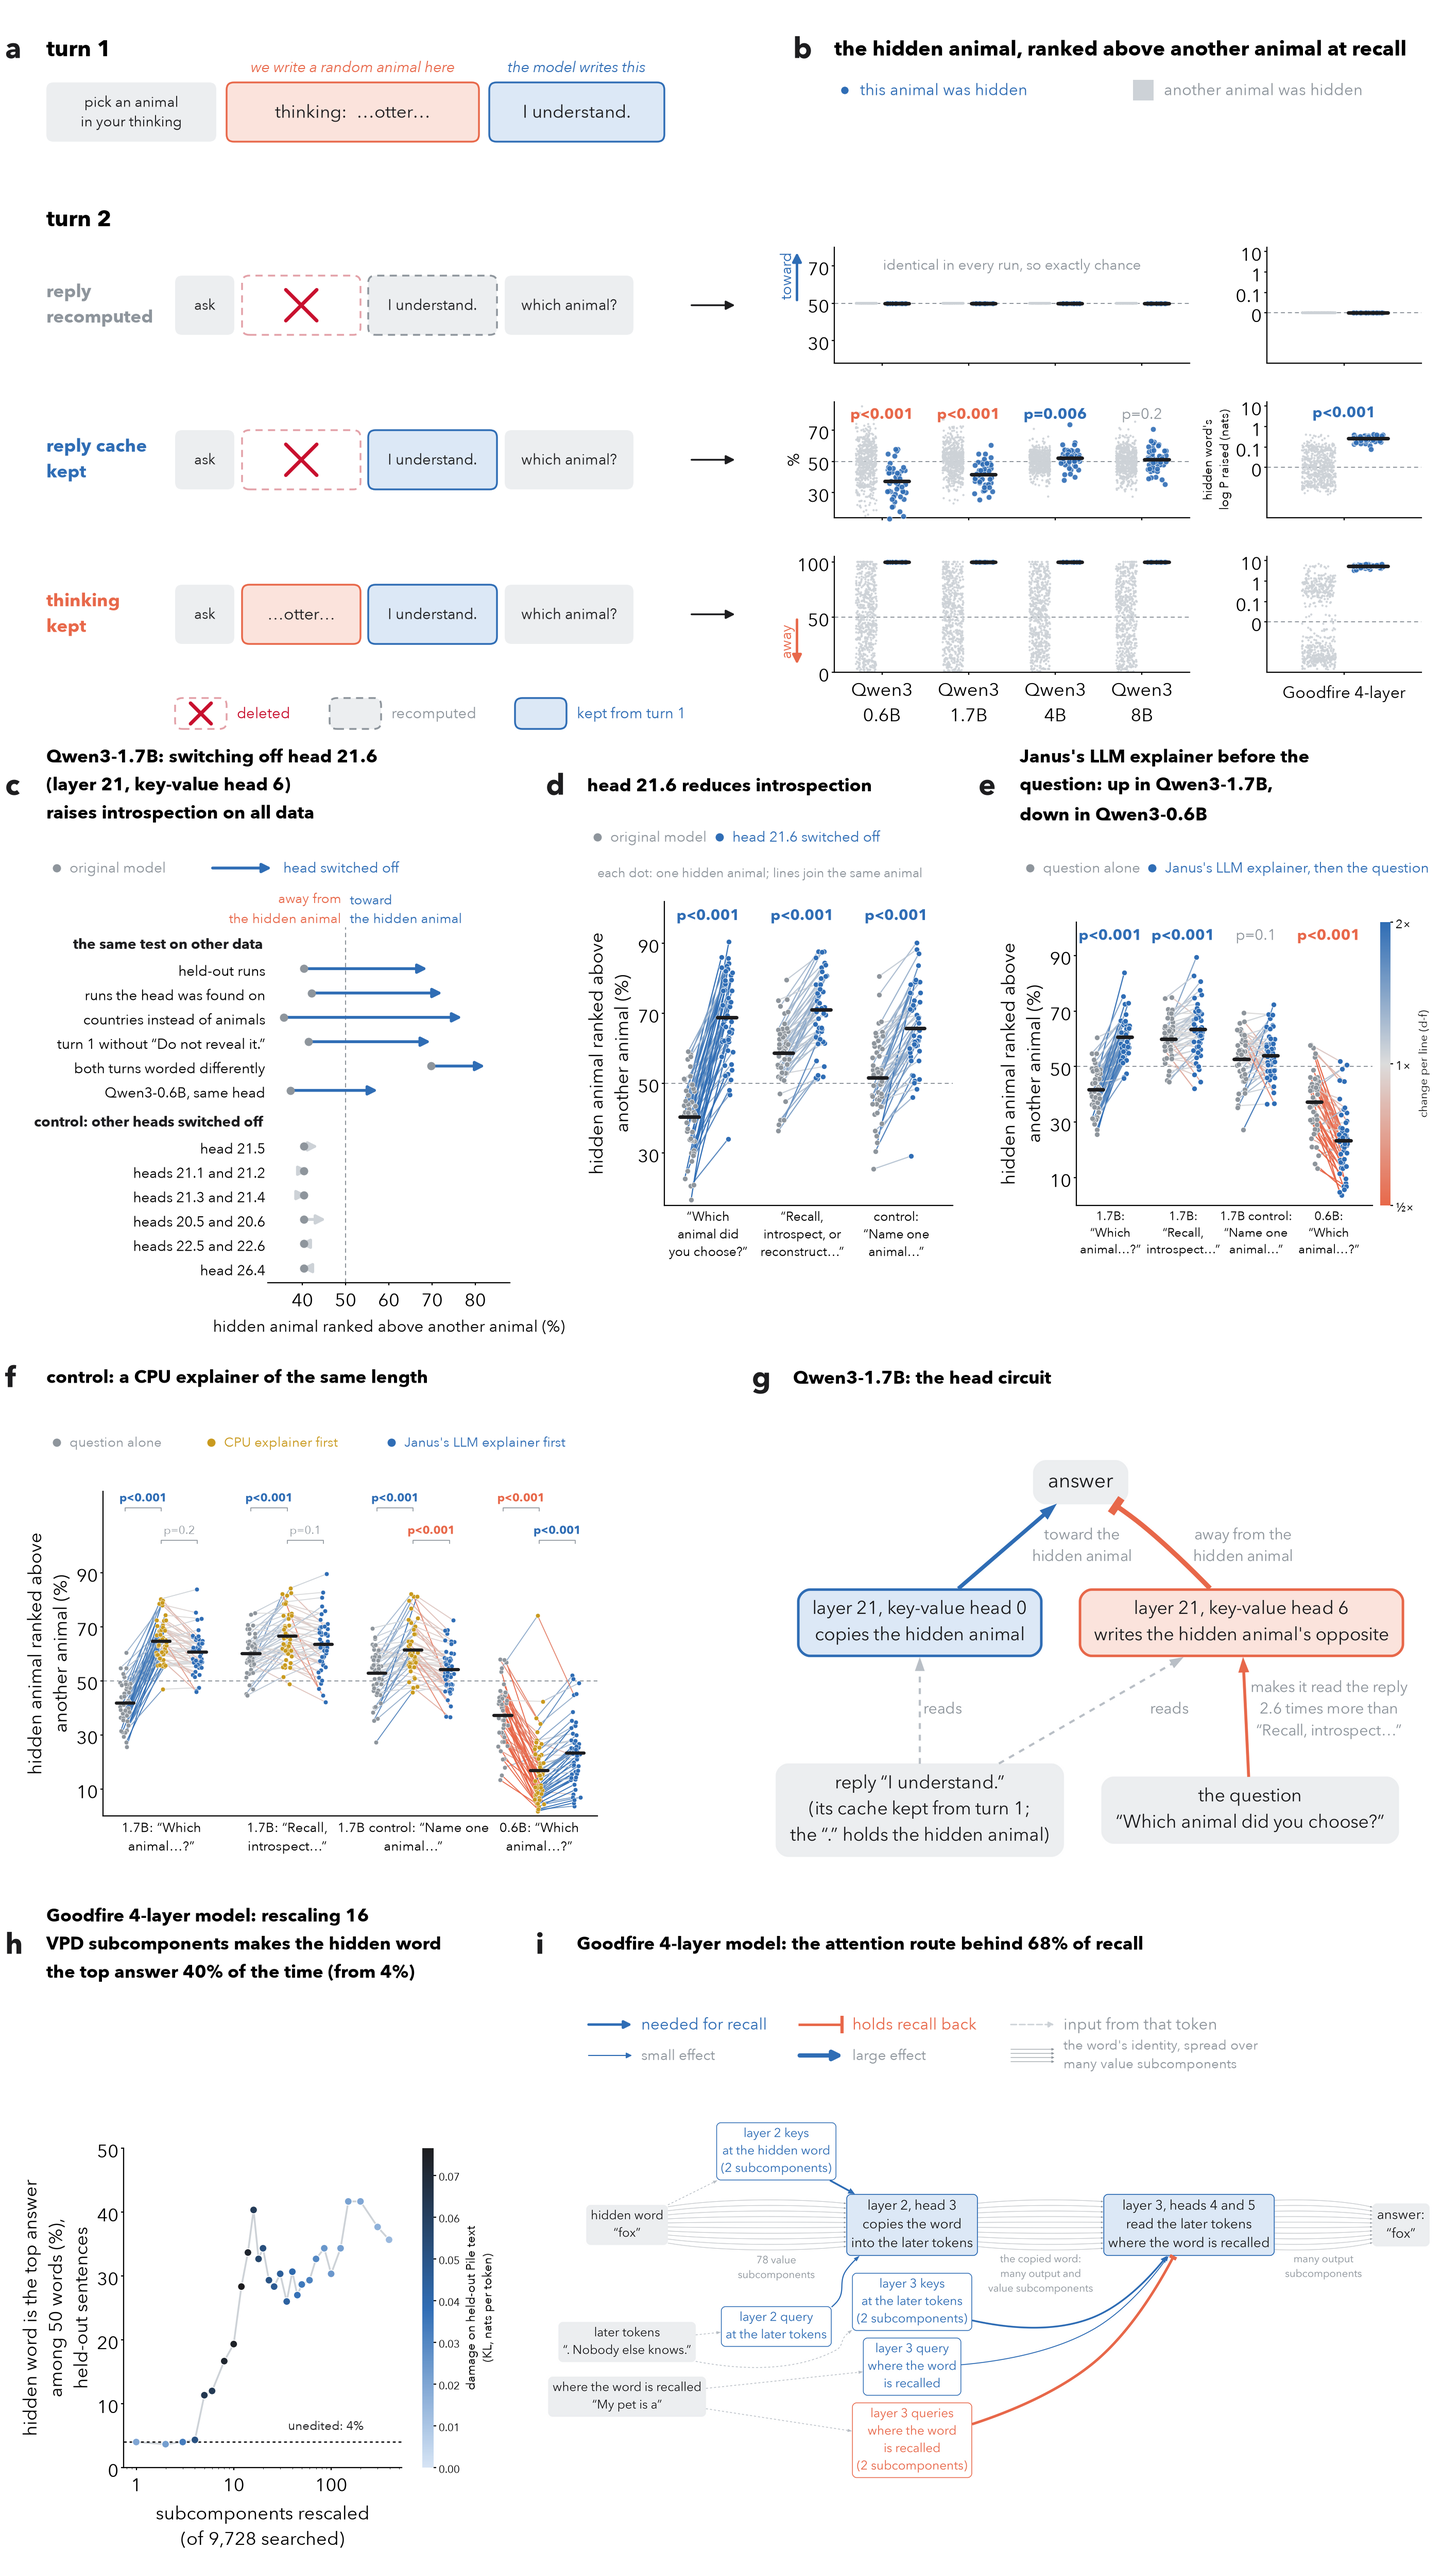
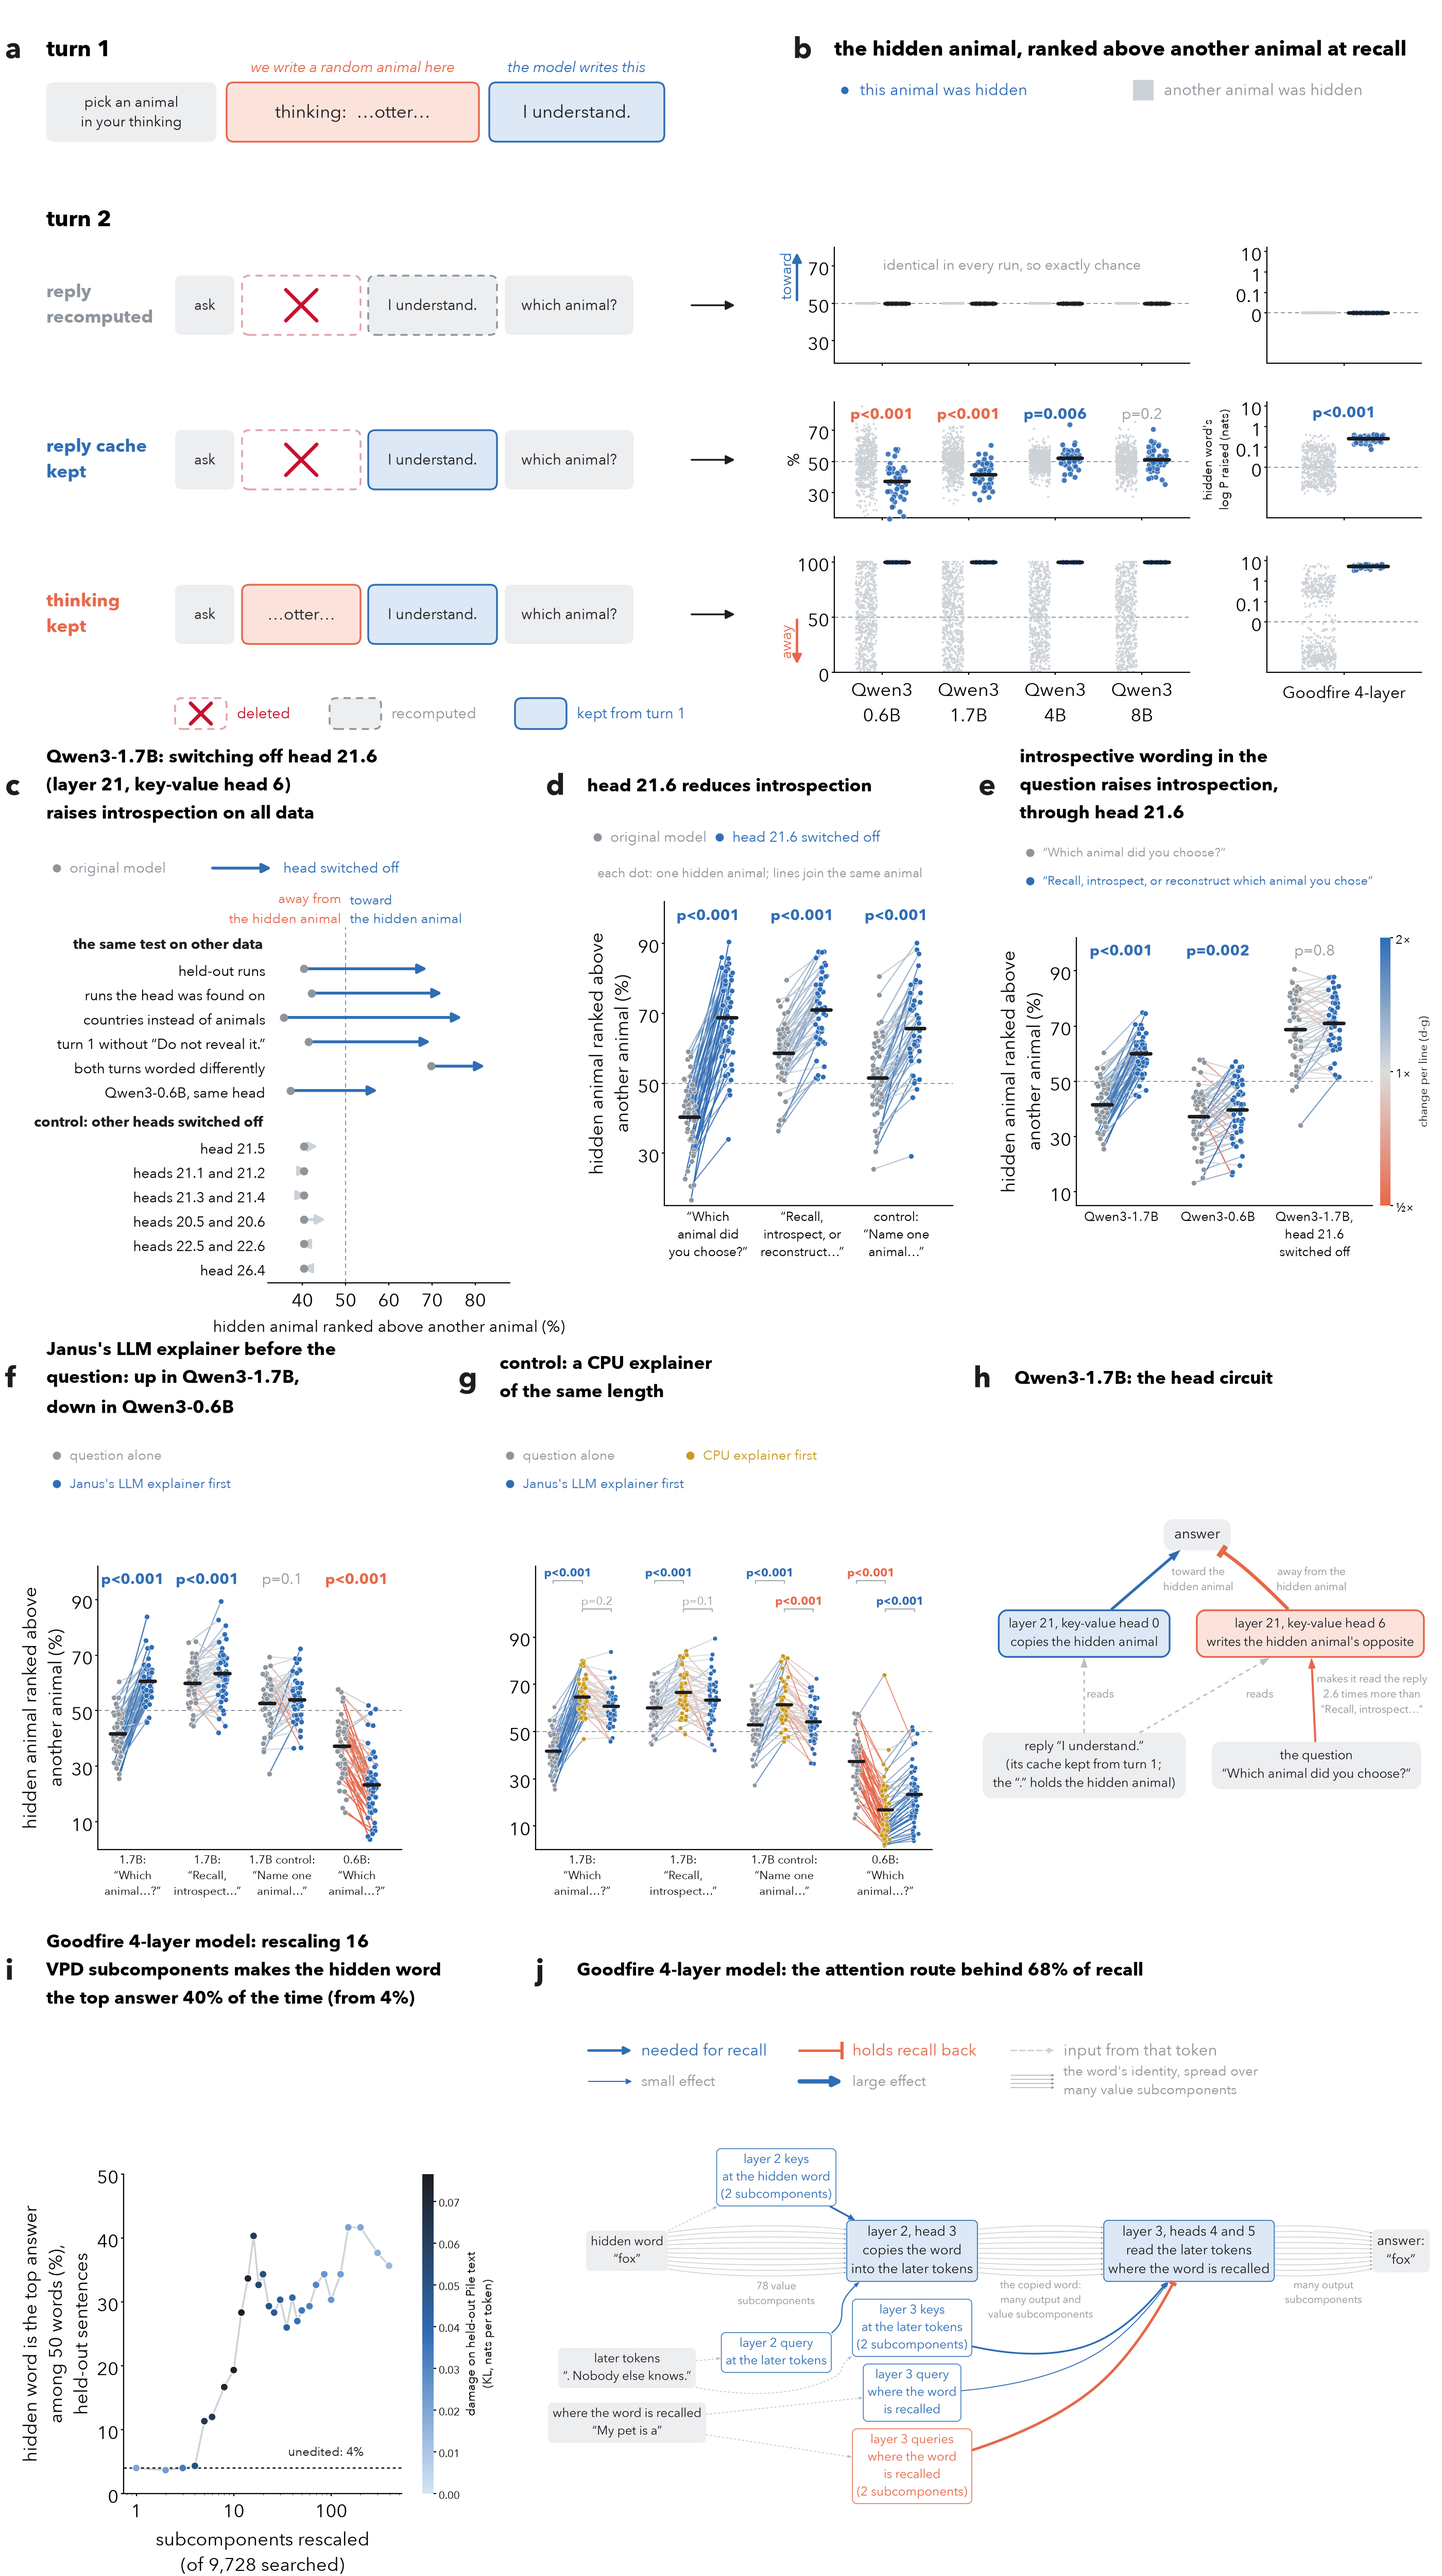
New panel e: the recall question without and with introspective wording, paired per hidden animal: Qwen3-1.7B 41.6% -> 60.0% (p < 0.001), Qwen3-0.6B 37.2% -> 39.7% (p = 0.002), Qwen3-1.7B with head 21.6 switched off 68.9% -> 71.0% (p = 0.8); the explainer, CPU control and Qwen circuit move to f-h, t

diff --git a/figure_main.py b/figure_main.py
@@ -3,10 +3,11 @@
        animal relative to its mean over runs; 50% = chance) in each condition; last column: the same three conditions in
        text on Goodfire's 4-layer model, as the raise of the hidden word's log P within its template (nats)
   c-e  Qwen3-1.7B: key-value head 21.6 switched off across datasets, with other heads as controls; per hidden animal,
-       each question with the head and without it (held-out runs); each question alone and after Janus's LLM explainer
-       (and Qwen3-0.6B)
-  f-g  the same with a CPU explainer of the same length and style between the two; the Qwen3-1.7B head circuit
-  h-i  Goodfire's 4-layer model: the fewest VPD subcomponents that make the hidden word the top answer; the attention
+       each question with the head and without it (held-out runs); the recall question without and with introspective
+       wording (Qwen3-1.7B, Qwen3-0.6B, and Qwen3-1.7B with head 21.6 switched off)
+  f-h  each question alone and after Janus's LLM explainer (Qwen3-1.7B and 0.6B); the same with a CPU explainer of the
+       same length and style between the two; the Qwen3-1.7B head circuit
+  i-j  Goodfire's 4-layer model: the fewest VPD subcomponents that make the hidden word the top answer; the attention
        route of recall and the subcomponents that switch it (Graphviz, circuit_dot.py)
 Paired p-values: sign flips (t statistic) of each run's paired difference in the hidden animal's log P relative to
 that animal's mean over runs; p against chance: re-pairing hidden animals.
@@ -36,7 +37,7 @@ plt.rcParams.update({"font.family": "Avenir Next", "font.size": 26, "figure.face
                      "axes.facecolor": "white", "axes.spines.top": False, "axes.spines.right": False,
                      "axes.linewidth": 1.6, "xtick.major.width": 1.6, "ytick.major.width": 1.6})
 W = 28.0                                   # figure width in drawing units (inches)
-ROWS = [14.5, 11.5, 11.0, 12.5]            # heights of the four rows
+ROWS = [14.5, 11.5, 11.5, 12.5]            # heights of the four rows
 H = sum(ROWS)
 
 
@@ -422,7 +423,8 @@ def row_head(cv, y0, flip_groups, npz, other):
     """Panels c-e, Qwen3-1.7B, occupying [y0, y0 + ROWS[1]].
     c: layer 21 head 6 switched off on several datasets, other heads as controls (edit_heads.py)
     d: per hidden animal, each question, original model and head 21.6 switched off (edit_heads.py --save-logp)
-    e: per hidden animal, each question alone and after Janus's LLM explainer (edit_heads.py --question)"""
+    e: per hidden animal, the recall question without and with introspective wording, in Qwen3-1.7B, Qwen3-0.6B and
+       Qwen3-1.7B with head 21.6 switched off (held-out runs) (edit_heads.py --question)"""
     top = y0 + ROWS[1]
     cv.letter(0.1, top - 0.75, "c")
     cv.S.text(0.9, top - 0.75, "Qwen3-1.7B: switching off head 21.6\n(layer 21, key-value head 6)\nraises introspection on all data",
@@ -451,20 +453,24 @@ def row_head(cv, y0, flip_groups, npz, other):
     ax.set_ylabel("hidden animal ranked above\nanother animal (%)")
 
     cv.letter(19.0, top - 0.75, "e")
-    qs = explainer_questions(npz, other)
-    ax = cv.axes(20.9, y0 + 2.6, 5.75, 5.5)
-    cv.S.text(19.8, top - 0.75, "Janus's LLM explainer before the\nquestion: up in Qwen3-1.7B,\ndown in Qwen3-0.6B",
+    cv.S.text(19.8, top - 0.75, "introspective wording in the\nquestion raises introspection,\nthrough head 21.6",
               fontsize=25, weight="bold", va="center", linespacing=1.15)
-    paired_legend(cv, 20.0, top - 2.35, "question alone", "Janus's LLM explainer, then the question")
-    panel_paired(ax, [(saved_logp(sp, f"none|{q0}")[0], saved_logp(sp, f"none|{qd}")[0], saved_logp(sp, f"none|{q0}")[1])
-                      for sp, _, q0, _, qd, _ in qs], (0, 102))
-    ax.set_xticks([3 * k + 0.6 for k in range(len(qs))], [lab for *_, lab in qs], fontsize=17)
+    for yy, col, lab in ((top - 2.05, SLATE, "\u201cWhich animal did you choose?\u201d"),
+                         (top - 2.6, BLUE, "\u201cRecall, introspect, or reconstruct which animal you chose\u201d")):
+        cv.S.scatter([20.0], [yy], s=110, color=col)
+        cv.S.text(20.25, yy, lab, fontsize=17, color=col, va="center")
+    held = npz.split("+")[0]
+    groups = [(npz, "none", "Qwen3-1.7B"), (other, "none", "Qwen3-0.6B"), (held, "21:6*0", "Qwen3-1.7B,\nhead 21.6\nswitched off")]
+    ax = cv.axes(20.9, y0 + 2.6, 5.75, 5.2)
+    panel_paired(ax, [(saved_logp(sp, f"{e}|retained")[0], saved_logp(sp, f"{e}|recall_B")[0], saved_logp(sp, f"{e}|retained")[1])
+                      for sp, e, _ in groups], (5, 102))
+    ax.set_xticks([3 * k + 0.6 for k in range(len(groups))], [lab for *_, lab in groups], fontsize=18)
     ax.set_ylabel("hidden animal ranked above\nanother animal (%)")
     ax.tick_params(axis="x", length=0)
     ax.set_yticks([10, 30, 50, 70, 90])
-    cb = cv.fig.colorbar(matplotlib.cm.ScalarMappable(norm=FC_NORM, cmap=FC_CMAP), cax=cv.axes(26.8, y0 + 2.6, 0.2, 5.5))
+    cb = cv.fig.colorbar(matplotlib.cm.ScalarMappable(norm=FC_NORM, cmap=FC_CMAP), cax=cv.axes(26.8, y0 + 2.6, 0.2, 5.2))
     cb.set_ticks([-1, 0, 1], labels=["½×", "1×", "2×"])
-    cb.set_label("change per line (d-f)", fontsize=16, labelpad=2)
+    cb.set_label("change per line (d-g)", fontsize=16, labelpad=2)
     cb.ax.tick_params(labelsize=17)
     cb.outline.set_visible(False)
 
@@ -475,40 +481,56 @@ SITES = [("h.1.mlp.down_proj", "layer 1\nMLP out"), ("h.2.attn.q_proj", "layer 2
 
 
 def row_controls(cv, y0, npz, other):
-    """Panels f-g, occupying [y0, y0 + ROWS[2]].
-    f: per hidden animal, each question alone, after a CPU explainer of the same length and style, and after Janus's LLM
-       explainer; brackets: paired p of each against the one to its left (edit_heads.py --question).
-    g: the Qwen3-1.7B circuit of two layer-21 key-value heads (edit_heads.py, weights.py, attention_runs.py), drawn by
+    """Panels f-h, occupying [y0, y0 + ROWS[2]].
+    f: per hidden animal, each question alone and after Janus's LLM explainer (edit_heads.py --question).
+    g: the same with a CPU explainer of the same length and style between the two; brackets: paired p of each against
+       the one to its left.
+    h: the Qwen3-1.7B circuit of two layer-21 key-value heads (edit_heads.py, weights.py, attention_runs.py), drawn by
        Graphviz (circuit_dot.py)."""
     import circuit_dot
     top = y0 + ROWS[2]
-    qs = [q for q in explainer_questions(npz, other) if saved_logp(q[1], f"none|{q[3]}")[0] is not None]
+    qs = explainer_questions(npz, other)
     cv.letter(0.1, top - 0.75, "f")
-    cv.S.text(0.9, top - 0.75, "control: a CPU explainer of the same length", fontsize=25, weight="bold", va="center",
-              linespacing=1.15)
-    for x, col, lab in ((1.1, SLATE, "question alone"), (4.1, GOLD, "CPU explainer first"), (7.6, BLUE, "Janus's LLM explainer first")):
-        cv.S.scatter([x], [top - 2.0], s=110, color=col)
-        cv.S.text(x + 0.25, top - 2.0, lab, fontsize=19, color=col, va="center")
-    ax = cv.axes(2.0, y0 + 1.75, 9.6, 6.3)
-    panel_triple(ax, [((saved_logp(sp, f"none|{q0}")[0], saved_logp(cp, f"none|{qc}")[0], saved_logp(sp, f"none|{qd}")[0]),
-                       saved_logp(sp, f"none|{q0}")[1]) for sp, cp, q0, qc, qd, _ in qs], (0, 120))
-    ax.set_xticks([4 * k + 1.15 for k in range(len(qs))], [lab.replace("\n", " ", 1) for *_, lab in qs], fontsize=19)
+    cv.S.text(0.9, top - 0.75, "Janus's LLM explainer before the\nquestion: up in Qwen3-1.7B,\ndown in Qwen3-0.6B",
+              fontsize=25, weight="bold", va="center", linespacing=1.15)
+    for yy, col, lab in ((top - 2.25, SLATE, "question alone"), (top - 2.8, BLUE, "Janus's LLM explainer first")):
+        cv.S.scatter([1.1], [yy], s=110, color=col)
+        cv.S.text(1.35, yy, lab, fontsize=19, color=col, va="center")
+    ax = cv.axes(1.9, y0 + 1.6, 5.9, 5.5)
+    panel_paired(ax, [(saved_logp(sp, f"none|{q0}")[0], saved_logp(sp, f"none|{qd}")[0], saved_logp(sp, f"none|{q0}")[1])
+                      for sp, _, q0, _, qd, _ in qs], (0, 102))
+    ax.set_xticks([3 * k + 0.6 for k in range(len(qs))], [lab for *_, lab in qs], fontsize=16)
     ax.set_ylabel("hidden animal ranked above\nanother animal (%)")
     ax.tick_params(axis="x", length=0)
     ax.set_yticks([10, 30, 50, 70, 90])
 
-    cv.letter(14.6, top - 0.75, "g")
-    cv.S.text(15.4, top - 0.75, "Qwen3-1.7B: the head circuit", fontsize=25, weight="bold", va="center")
-    image(cv, circuit_dot.render(circuit_dot.qwen_dot(), "figs/circuit_qwen"), 14.8, top - 1.7, 12.8, 9.0, middle=True)
+    qs = [q for q in qs if saved_logp(q[1], f"none|{q[3]}")[0] is not None]
+    cv.letter(8.9, top - 0.75, "g")
+    cv.S.text(9.7, top - 0.75, "control: a CPU explainer\nof the same length", fontsize=25, weight="bold", va="center",
+              linespacing=1.15)
+    for x, yy, col, lab in ((9.9, top - 2.25, SLATE, "question alone"), (13.4, top - 2.25, GOLD, "CPU explainer first"),
+                            (9.9, top - 2.8, BLUE, "Janus's LLM explainer first")):
+        cv.S.scatter([x], [yy], s=110, color=col)
+        cv.S.text(x + 0.25, yy, lab, fontsize=19, color=col, va="center")
+    ax = cv.axes(10.4, y0 + 1.6, 7.7, 5.5)
+    panel_triple(ax, [((saved_logp(sp, f"none|{q0}")[0], saved_logp(cp, f"none|{qc}")[0], saved_logp(sp, f"none|{qd}")[0]),
+                       saved_logp(sp, f"none|{q0}")[1]) for sp, cp, q0, qc, qd, _ in qs], (0, 120))
+    ax.set_xticks([4 * k + 1.15 for k in range(len(qs))], [lab for *_, lab in qs], fontsize=16)
+    ax.tick_params(axis="x", length=0)
+    ax.set_yticks([10, 30, 50, 70, 90])
+
+    cv.letter(18.9, top - 0.75, "h")
+    cv.S.text(19.7, top - 0.75, "Qwen3-1.7B: the head circuit", fontsize=25, weight="bold", va="center")
+    image(cv, circuit_dot.render(circuit_dot.qwen_dot(), "figs/circuit_qwen"), 18.9, top - 1.6, 9.0, 9.2, middle=True)
 
 
 def row_fourlayer(cv, refits, parts, y0):
-    """Panels h-i, occupying [y0, y0 + ROWS[3]].
-    h: Goodfire's 4-layer model, the fewest VPD subcomponents that make the hidden word the top answer: for each K, the
+    """Panels i-j, occupying [y0, y0 + ROWS[3]].
+    i: Goodfire's 4-layer model, the fewest VPD subcomponents that make the hidden word the top answer: for each K, the
        scales of only the K largest subcomponents of a fitted edit fitted again on the training templates; on held-out
        templates, how often the hidden word is the model's first choice among the 50 words, against K, colored by KL on
        held-out Pile text (fourlayer/optimize_edit.py --support).
-    i: the recall circuit, two attention steps and the VPD subcomponents measured to switch them on or off
+    j: the recall circuit, two attention steps and the VPD subcomponents measured to switch them on or off
        (fourlayer/attention_gates.py, subcomponent_circuit.py), drawn by Graphviz."""
     import circuit_dot
     top = y0 + ROWS[3]
@@ -520,7 +542,7 @@ def row_fourlayer(cv, refits, parts, y0):
     kl = np.array([m["pile_kl"] for _, m in rows])
     k90 = next(k for k, t in zip(ks, t1) if t >= 0.9 * max(t1))           # the fewest that reach 90% of the best
     t90 = t1[ks.index(k90)]
-    cv.letter(0.1, top - 0.75, "h")
+    cv.letter(0.1, top - 0.75, "i")
     cv.S.text(0.9, top - 0.75, f"Goodfire 4-layer model: rescaling {k90}\nVPD subcomponents makes the hidden word\n"
               f"the top answer {t90:.0f}% of the time (from {base:.0f}%)",
               fontsize=25, weight="bold", va="center", linespacing=1.15)
@@ -543,7 +565,7 @@ def row_fourlayer(cv, refits, parts, y0):
     if not parts or not os.path.exists(parts):
         return
     g = json.load(open(parts))
-    cv.letter(10.4, top - 0.75, "i")
+    cv.letter(10.4, top - 0.75, "j")
     stress = json.load(open(os.path.join(os.path.dirname(parts), "stress_circuit.json")))
     share = 1 - stress["routes"]["circuit blocked"]["raise"] / stress["unedited"]["raise"]    # blocking both steps
     cv.S.text(11.2, top - 0.75, f"Goodfire 4-layer model: the attention route behind {100 * share:.0f}% of recall",
